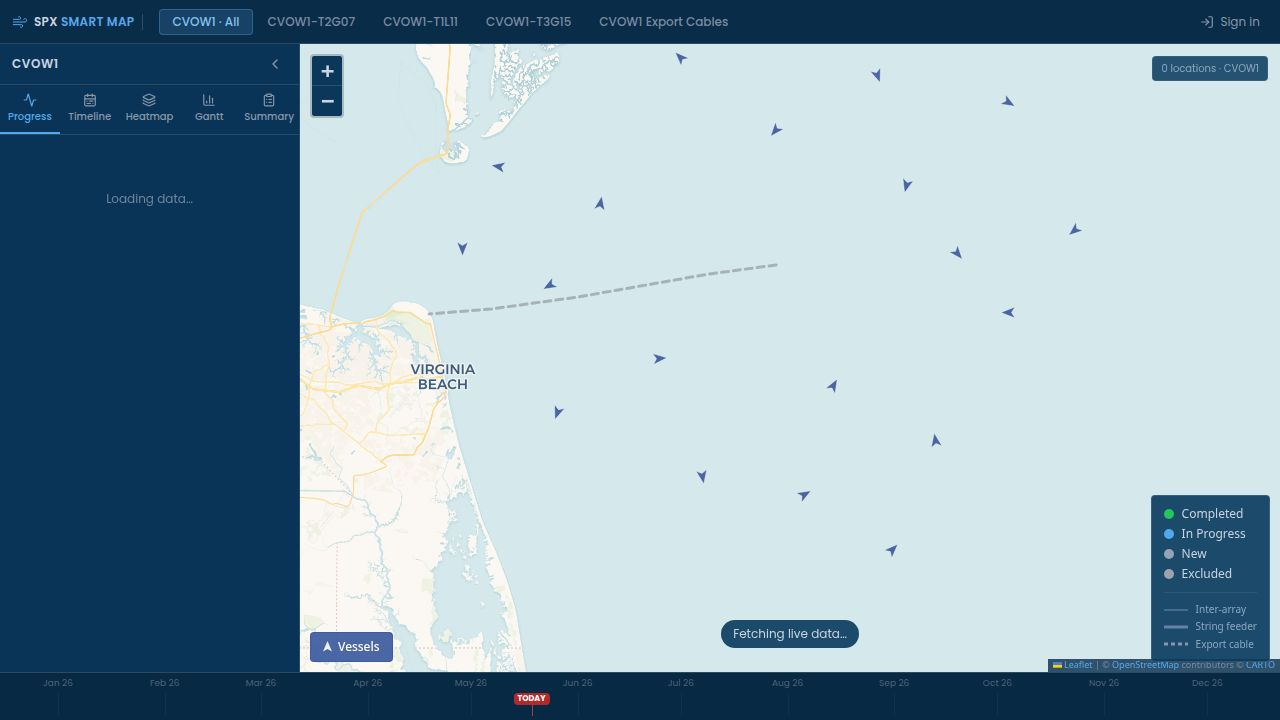
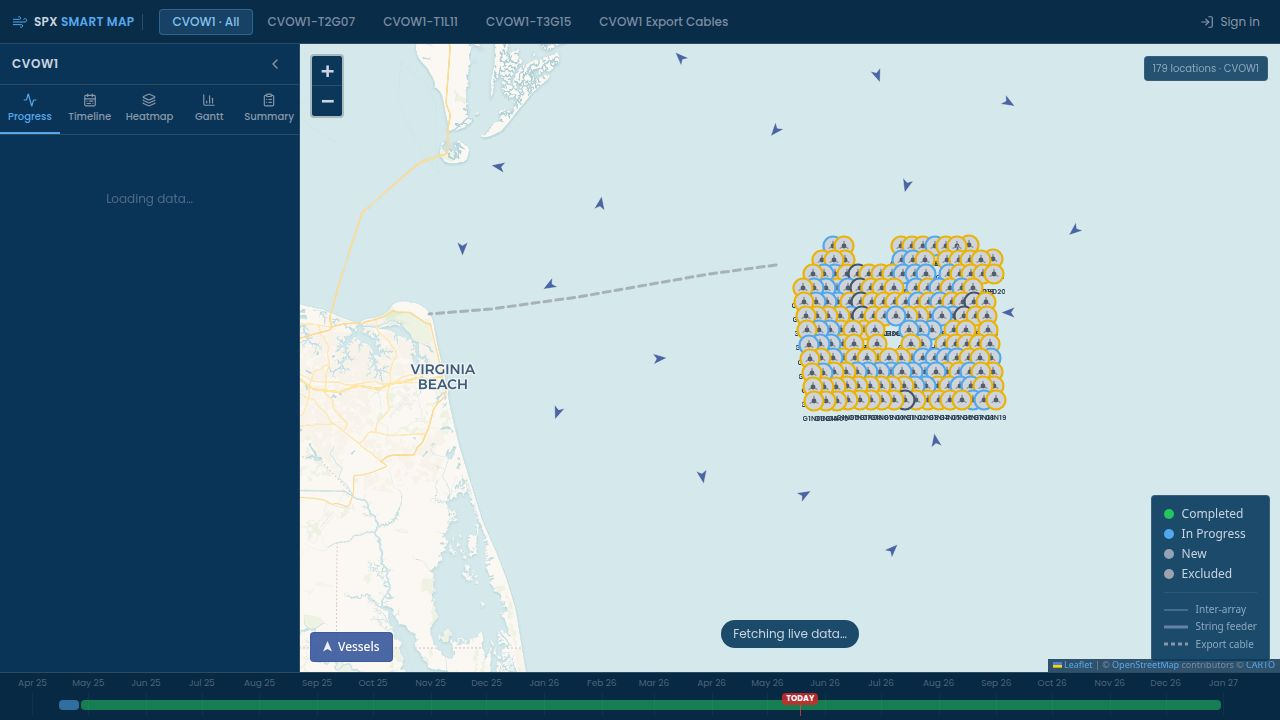
Task #12: Show which string each turbine belongs to with a filterable string selector
## Summary
Added a string filter feature to the Progress tab sidebar. Users can click any string
card to filter the map to only that string's turbines and cables; clicking again deselects.

## Changes

### artifacts/wind-farm-tracker/src/context/MapTabContext.tsx
- Added `selectedString: string | null` and `setSelectedString` to MapTabContextValue
- Added state in MapTabProvider; `handleSetActiveTab` clears selectedString automatically
  when the active substation tab changes (prevents stale filters carrying across tabs)

### artifacts/wind-farm-tracker/src/components/ProgressView.tsx
- Each StringCard is now a clickable <button>; clicking selects/deselects it
- "STRING FILTER" section label added above the list with a "click to filter" hint
- When a filter is active: active string name + "Clear" link replace the hint
- Selected card: blue-tinted background + outline; other cards: 0.4 opacity (dimmed)
- SummaryBar reflects only the selected string's stats when a filter is active
- Each StringCard now shows a coloured progressStatus badge from the StringDef sheet
  (e.g. "In Progress" in blue, "Completed" in green) — badge uses statusColor()
- stringDefByName lookup map built via useMemo for O(1) per-card access

### artifacts/wind-farm-tracker/src/components/MapView.tsx
- `mappable` filters by `selectedString` when set; substations are kept visible always
- Inter-array and string-feeder cable polylines filter automatically because
[…]

Changed region(s): [[0.0312, 0.9472, 0.9688, 1.0], [0.5938, 0.3056, 0.8125, 0.6111], [0.875, 0.0611, 0.9062, 0.1222]]

diff --git a/artifacts/wind-farm-tracker/src/components/ProgressView.tsx b/artifacts/wind-farm-tracker/src/components/ProgressView.tsx
@@ -1,8 +1,8 @@
 import { memo, useMemo } from "react";
 import { useSheetData } from "@/context/SheetDataContext";
 import { useMapTab } from "@/context/MapTabContext";
-import { STATUS_COLORS } from "@/lib/types";
-import type { StringGroup } from "@/lib/types";
+import { STATUS_COLORS, statusColor } from "@/lib/types";
+import type { StringGroup, StringDef } from "@/lib/types";
 
 function MiniPie({ completed, inProgress, newCount, excluded }: Pick<StringGroup, "completed" | "inProgress" | "newCount" | "excluded">) {
   const total = completed + inProgress + newCount + excluded;
@@ -41,9 +41,35 @@ function MiniPie({ completed, inProgress, newCount, excluded }: Pick<StringGroup
   );
 }
 
-const StringCard = memo(function StringCard({ group }: { group: StringGroup }) {
+const StringCard = memo(function StringCard({
+  group,
+  stringDef,
+  selected,
+  dimmed,
+  onClick,
+}: {
+  group: StringGroup;
+  stringDef: StringDef | undefined;
+  selected: boolean;
+  dimmed: boolean;
+  onClick: () => void;
+}) {
+  const defStatus = stringDef?.progressStatus;
+  const defColor = defStatus ? statusColor(defStatus) : null;
+
   return (
-    <div className="px-3 py-2.5 border-b border-border last:border-0 hover:bg-white/3 transition-colors">
+    <button
+      onClick={onClick}
+      className="w-full text-left px-3 py-2.5 border-b border-border last:border-0 transition-colors"
+      style={{
+        background: selected
+          ? "rgba(82,168,236,0.12)"
+          : undefined,
+        opacity: dimmed ? 0.4 : 1,
+        outline: selected ? "1px solid rgba(82,168,236,0.35)" : undefined,
+        outlineOffset: selected ? "-1px" : undefined,
+      }}
+    >
       <div className="flex items-center gap-2">
         <MiniPie
           completed={group.completed}
@@ -53,7 +79,21 @@ const StringCard = memo(function StringCard({ group }: { group: StringGroup }) {
         />
         <div className="flex-1 min-w-0">
           <div className="flex items-center justify-between gap-1">
-            <span className="text-xs font-semibold text-foreground truncate">{group.stringId}</span>
+            <div className="flex items-center gap-1.5 min-w-0">
+              <span className="text-xs font-semibold text-foreground truncate">{group.stringId}</span>
+              {defStatus && defColor && (
+                <span
+                  className="text-[9px] font-medium px-1 py-0 rounded flex-shrink-0"
+                  style={{
+                    background: defColor + "28",
+                    color: defColor,
+                    border: `1px solid ${defColor}50`,
+                  }}
+                >
+                  {defStatus}
+                </span>
+              )}
+            </div>
             <span className="text-xs font-bold text-primary flex-shrink-0">{group.progressPercent}%</span>
           </div>
           <div className="text-[10px] text-muted-foreground truncate mb-1">
@@ -80,7 +120,7 @@ const StringCard = memo(function StringCard({ group }: { group: StringGroup }) {
           </div>
         </div>
       </div>
-    </div>
+    </button>
   );
 });
 
@@ -133,8 +173,8 @@ function SummaryBar({ groups }: { groups: StringGroup[] }) {
 }
 
 export default memo(function ProgressView() {
-  const { stringGroups, isLoading, isError } = useSheetData();
-  const { activeTab } = useMapTab();
+  const { stringGroups, stringDefs, isLoading, isError } = useSheetData();
+  const { activeTab, selectedString, setSelectedString } = useMapTab();
 
   const filteredGroups = useMemo(() => {
     if (activeTab === "all") return stringGroups;
@@ -143,6 +183,14 @@ export default memo(function ProgressView() {
       (g) => g.subStation === activeTab || g.subStation.includes(activeTab),
     );
   }, [stringGroups, activeTab]);
+
+  const stringDefByName = useMemo(() => {
+    const m = new Map<string, StringDef>();
+    for (const sd of stringDefs) {
+      if (sd.stringName) m.set(sd.stringName, sd);
+    }
+    return m;
+  }, [stringDefs]);
 
   if (isLoading) {
     return (
@@ -174,10 +222,46 @@ export default memo(function ProgressView() {
 
   return (
     <div className="flex flex-col h-full overflow-hidden">
-      <SummaryBar groups={filteredGroups} />
+      <SummaryBar groups={selectedString ? filteredGroups.filter((g) => g.stringId === selectedString) : filteredGroups} />
+
+      {/* String selector label + active filter indicator */}
+      <div
+        className="flex items-center justify-between px-3 py-1.5 border-b border-border flex-shrink-0"
+        style={{ background: "rgba(255,255,255,0.03)" }}
+      >
+        <span className="text-[10px] font-semibold uppercase tracking-wider text-muted-foreground">
+          String filter
+        </span>
+        {selectedString && (
+          <div className="flex items-center gap-1.5">
+            <span className="text-[10px] text-primary font-medium">
+              <strong>{selectedString}</strong>
+            </span>
+            <button
+              onClick={() => setSelectedString(null)}
+              className="text-[9px] text-muted-foreground hover:text-foreground transition-colors underline"
+            >
+              Clear
+            </button>
+          </div>
+        )}
+        {!selectedString && (
+          <span className="text-[9px] text-muted-foreground/50">click to filter</span>
+        )}
+      </div>
+
       <div className="flex-1 overflow-y-auto">
         {filteredGroups.map((g) => (
-          <StringCard key={g.stringId} group={g} />
+          <StringCard
+            key={g.stringId}
+            group={g}
+            stringDef={stringDefByName.get(g.stringId)}
+            selected={selectedString === g.stringId}
+            dimmed={selectedString !== null && selectedString !== g.stringId}
+            onClick={() =>
+              setSelectedString(selectedString === g.stringId ? null : g.stringId)
+            }
+          />
         ))}
       </div>
     </div>

diff --git a/artifacts/wind-farm-tracker/src/components/MapView.tsx b/artifacts/wind-farm-tracker/src/components/MapView.tsx
@@ -317,7 +317,7 @@ function Legend({
 
 export default memo(function MapView() {
   const { locations, campaigns, cables, stringDefs, locationByName, isLoading } = useSheetData();
-  const { activeTab, selectedDate } = useMapTab();
+  const { activeTab, selectedDate, selectedString } = useMapTab();
   const [showVessels, setShowVessels] = useState(true);
   const [mapZoom, setMapZoom] = useState(ZOOM);
   const toggleVessels = useCallback(() => setShowVessels((v) => !v), []);
@@ -327,15 +327,18 @@ export default memo(function MapView() {
   /* Stable per-string colour map */
   const stringColorMap = useMemo(() => buildStringColorMap(locations), [locations]);
 
-  /* Filter locations shown by the active tab */
+  /* Filter locations shown by the active tab, then by selectedString */
   const mappable = useMemo(() => {
     const withPos = locations.filter((l) => l.latLng !== null);
     if (showExportOnly) return [];
-    if (activeTab === "all") return withPos;
-    return withPos.filter(
-      (l) => l.primarySubStation === activeTab || l.primarySubStation.includes(activeTab),
-    );
-  }, [locations, activeTab, showExportOnly]);
+    let filtered = activeTab === "all"
+      ? withPos
+      : withPos.filter((l) => l.primarySubStation === activeTab || l.primarySubStation.includes(activeTab));
+    if (selectedString) {
+      filtered = filtered.filter((l) => l.string === selectedString || IS_SUBSTATION(l.locationType));
+    }
+    return filtered;
+  }, [locations, activeTab, showExportOnly, selectedString]);
 
   /* Campaign-date driven dim set (unchanged) */
   const dimmedIds = useMemo(() => {

diff --git a/artifacts/wind-farm-tracker/src/context/MapTabContext.tsx b/artifacts/wind-farm-tracker/src/context/MapTabContext.tsx
@@ -15,6 +15,8 @@ interface MapTabContextValue {
   setActiveTab: (tab: ProjectTab) => void;
   selectedDate: Date | null;
   setSelectedDate: (d: Date | null) => void;
+  selectedString: string | null;
+  setSelectedString: (s: string | null) => void;
 }
 
 const MapTabContext = createContext<MapTabContextValue | null>(null);
@@ -24,13 +26,22 @@ const FALLBACK: MapTabContextValue = {
   setActiveTab: () => {},
   selectedDate: null,
   setSelectedDate: () => {},
+  selectedString: null,
+  setSelectedString: () => {},
 };
 
 export function MapTabProvider({ children }: { children: ReactNode }) {
   const [activeTab, setActiveTab] = useState<ProjectTab>("all");
   const [selectedDate, setSelectedDate] = useState<Date | null>(null);
+  const [selectedString, setSelectedString] = useState<string | null>(null);
+
+  const handleSetActiveTab = (tab: ProjectTab) => {
+    setActiveTab(tab);
+    setSelectedString(null);
+  };
+
   return (
-    <MapTabContext.Provider value={{ activeTab, setActiveTab, selectedDate, setSelectedDate }}>
+    <MapTabContext.Provider value={{ activeTab, setActiveTab: handleSetActiveTab, selectedDate, setSelectedDate, selectedString, setSelectedString }}>
       {children}
     </MapTabContext.Provider>
   );
